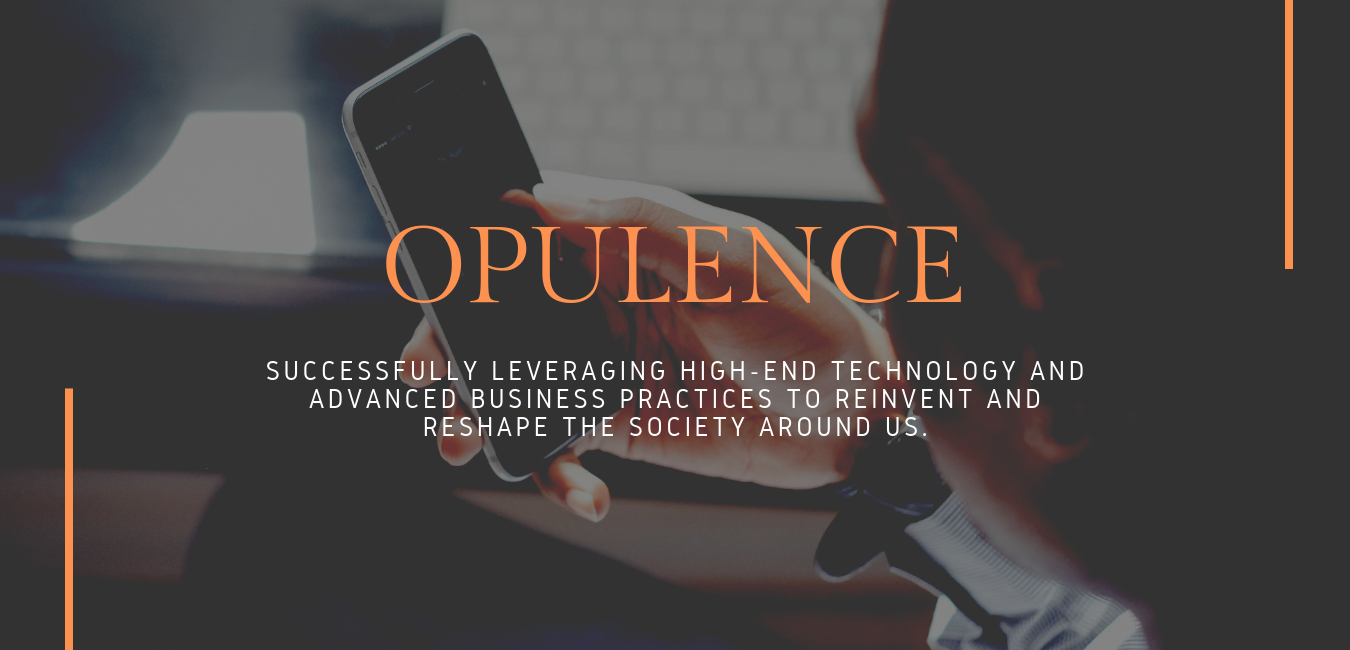
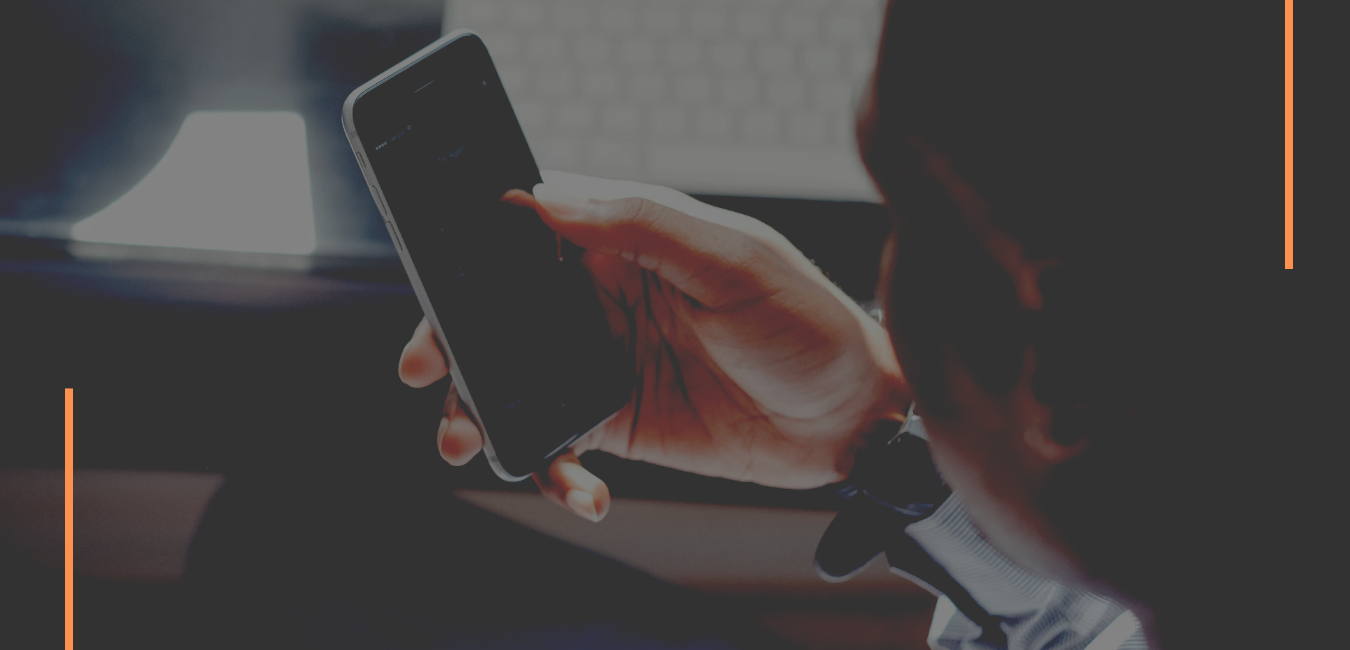
add h1 and p elemnt

Changed region(s): [[0.1867, 0.5538, 0.8089, 0.6769], [0.28, 0.3385, 0.7156, 0.4615]]

diff --git a/index.html b/index.html
@@ -1,27 +1,38 @@
 <!DOCTYPE html>
 <!DOCTYPE html>
 <html lang="en" dir="ltr">
-  <head>
-    <meta charset="utf-8">
-    <link rel="stylesheet" type="text/css" href="css/styles.css">
-    <title>Opulence</title>
-  </head>
-  <body>
-    <div class="first">
+
+<head>
+  <meta charset="utf-8">
+  <link rel="stylesheet" type="text/css" href="css/styles.css">
+  <title>Opulence</title>
+</head>
+
+<body>
+  <div class="identity">
+<br>
     <nav>
-        <ul>
+      <ul>
 
-        <strong><li><a href="#home">Home</a></li></strong>
-        <strong><li><a href="aboutus.html">About Us</a></li></strong>
-        <strong><li><a href="accomplishments.html">Accomplishments</a></li></strong>
-        <strong><li><a href="#contact">Contact</a></li></strong>
+        <strong>
+          <li><a href="#home">Home</a></li>
+        </strong>
+        <strong>
+          <li><a href="aboutus.html">About Us</a></li>
+        </strong>
+        <strong>
+          <li><a href="accomplishments.html">Accomplishments</a></li>
+        </strong>
+        <strong>
+          <li><a href="#contact">Contact</a></li>
+        </strong>
 
-        </ul>
+      </ul>
     </nav>
-    <footer>
-      <div class="contact">
-     <p><strong>For Enquiries:</strong></p>
-     <p><strong>opulence@gmail.com</strong></p>
-    </footer>
-  </body>
+<div class=fisrt">
+  <h2>OPULENCE</h2>
+  <p class="first">SUCCESSFULLY LEVERAGING HIGH END TECHNOLOGY AND ADVANCED BUSINESS PRACTICS TO REINVENT AND RESHAPE THE SOCIETY AROUND US</p>
+  </div>
+
+</body>
 </html>

diff --git a/css/styles.css b/css/styles.css
@@ -1,22 +1,30 @@
-body{
-  display:flex;
+body {
+
   background-image: url("/home/moringa/Documents/moringa-school-projects/Portfolio-Landing-Page/Images/OPULENCE.png");
   background-repeat: no-repeat;
   background-size: cover;
 }
-nav li{
+nav li {
     display: inline;
     margin-left: 30px;
 }
-nav li a{
+nav li a {
     text-decoration: none;
     padding: 10px;
     color: #ff914d;
     text-size: 10px;
     font-size: 130%;
 }
-a:hover{
+a:hover {
   color: black;
   background-color: white;
   text-decoration: underline;
+}
+.class {
+
+}
+.class p {
+  text-align: center;
+  font-size: 21px;
+  color: white;
 }
